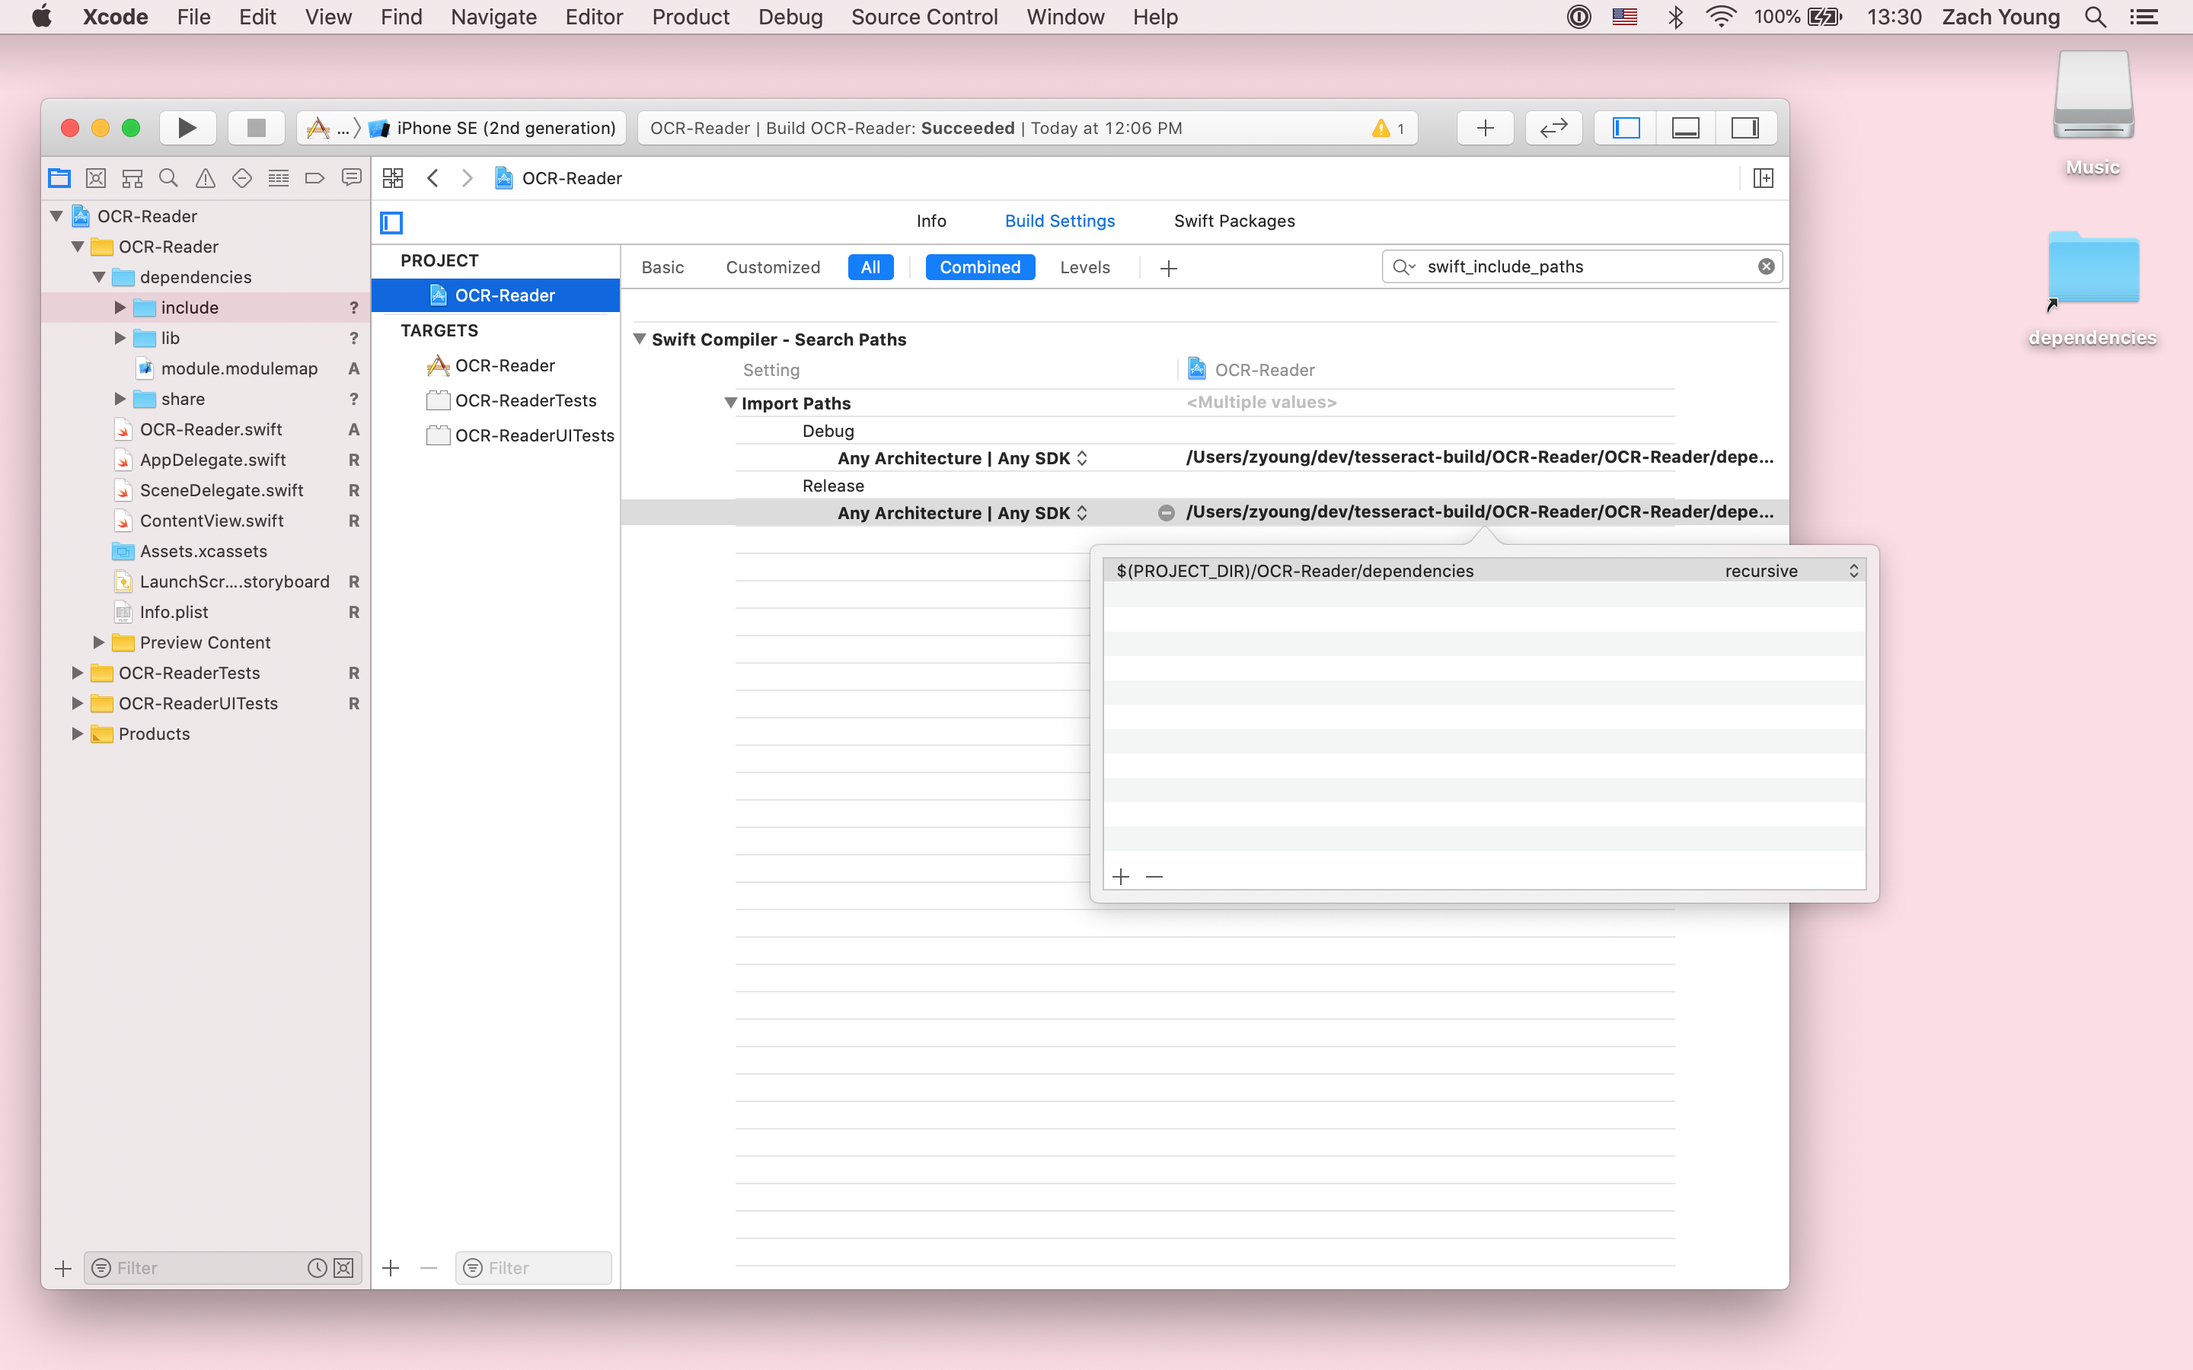
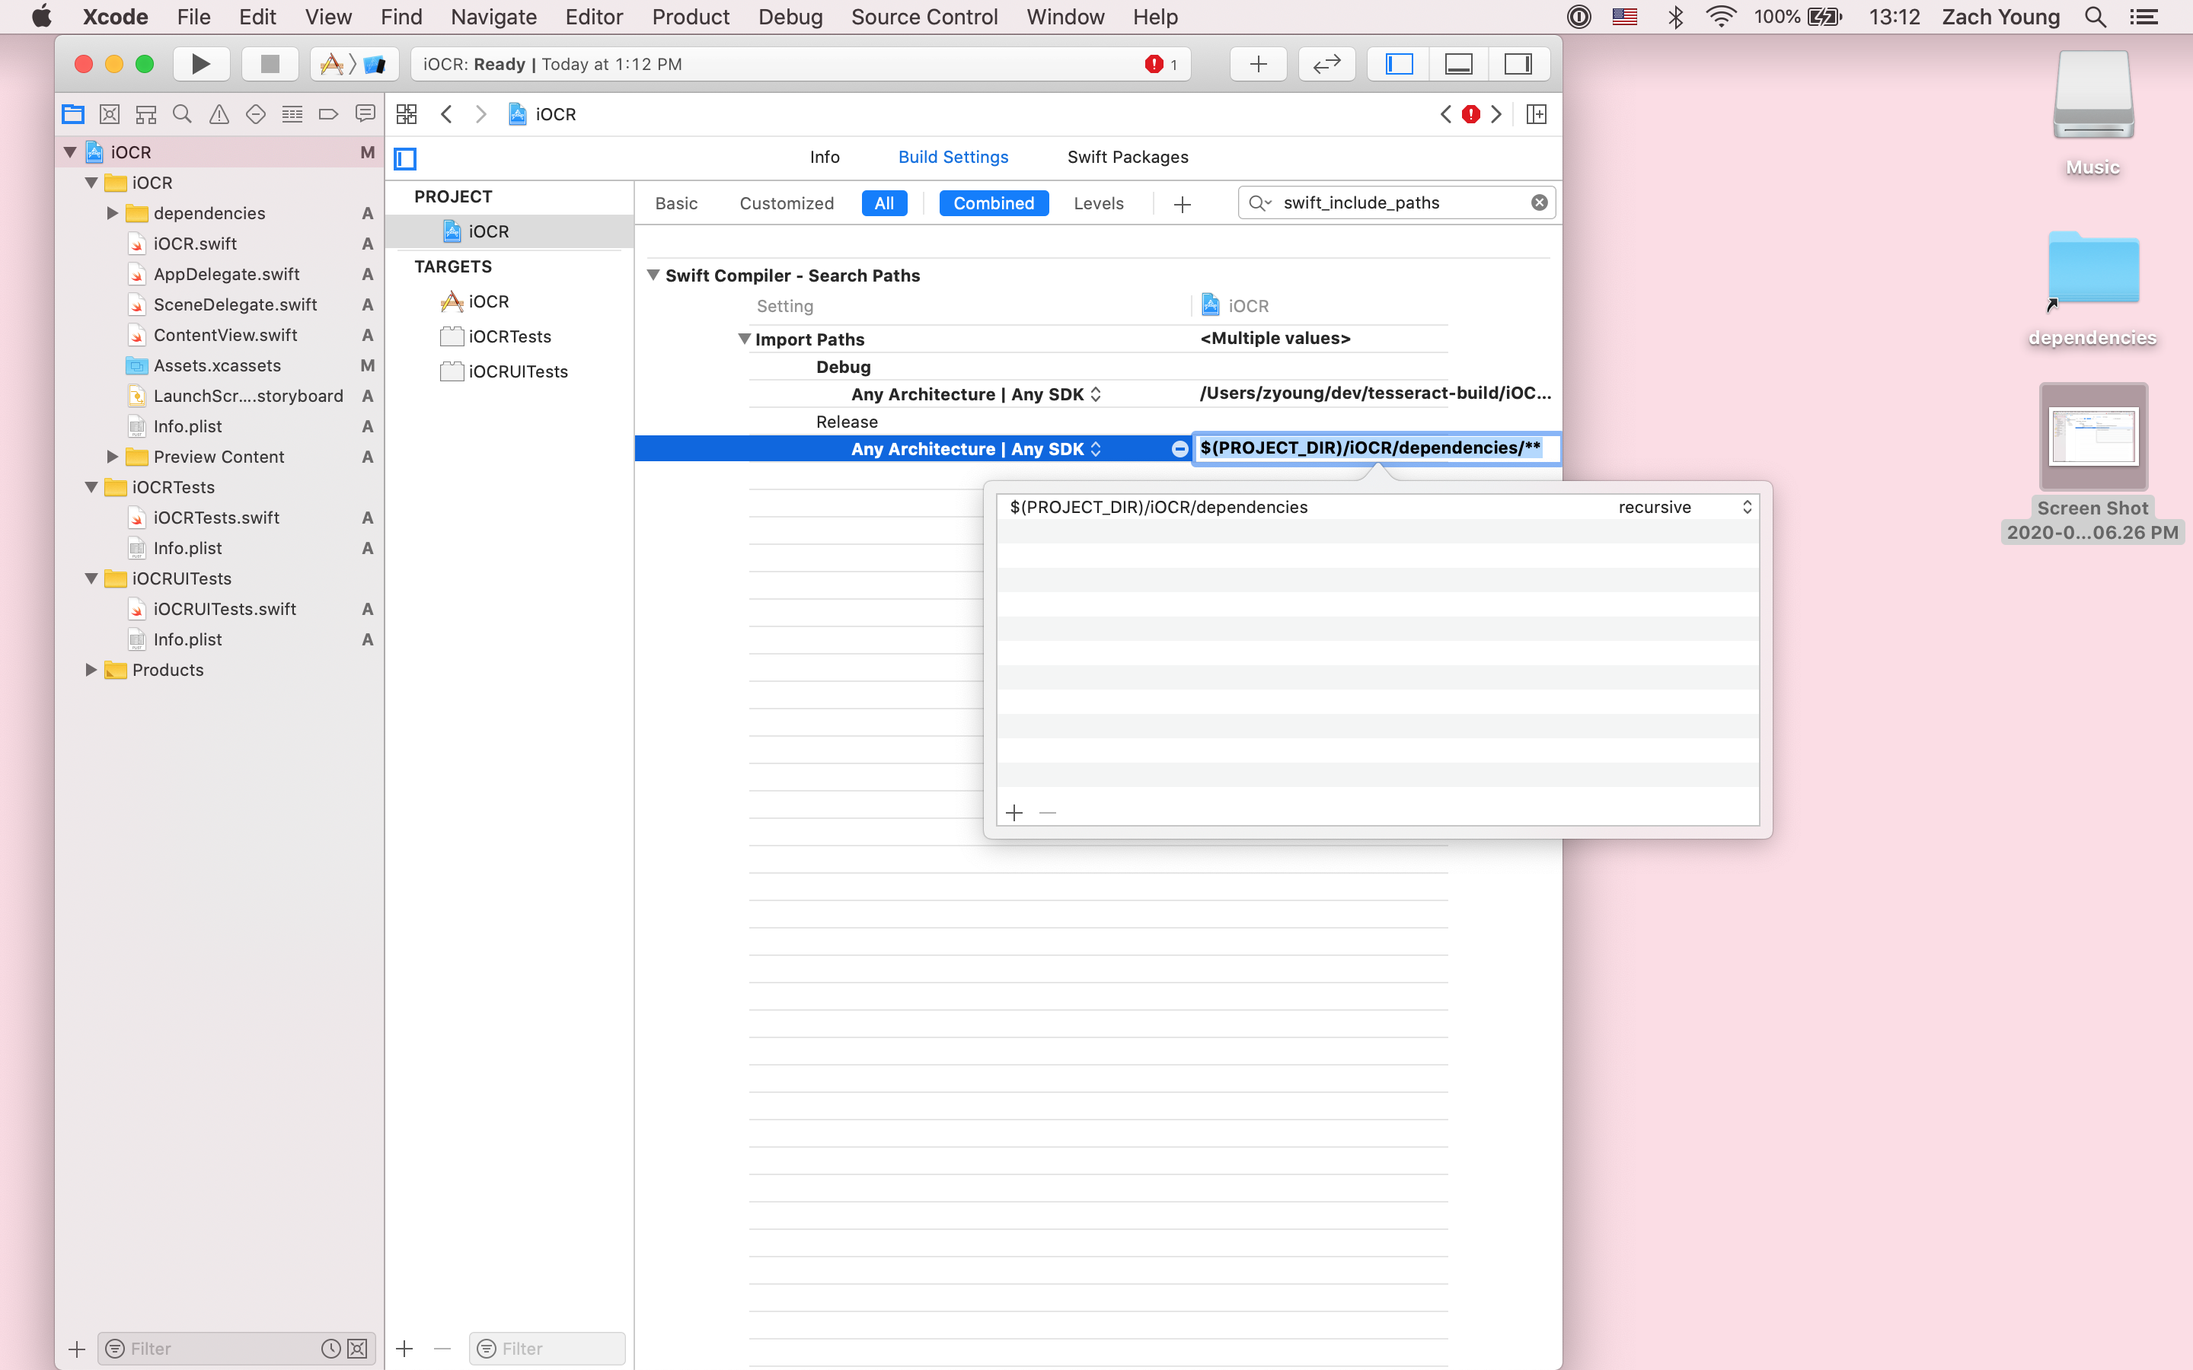
blah

diff --git a/README.md b/README.md
@@ -1,57 +1,3 @@
-## Troubleshooting
-
-```zsh
-macos_x86_64: configuring... ERROR running ../configure CC=...
-...
-...
-ERROR see /Users/zyoung/dev/tesseract-build/Logs/tesseract-4.1.1/3_config_macos_x86_64.err for more details
-```
-
-Looking at **Logs/tesseract-4.1.1/3_config_macos_x86_64.err**:
-
-```none
-configure: error: in `/Users/zyoung/dev/tesseract-build/Sources/tesseract-4.1.1/macos_x86_64':
-configure: error: C++ compiler cannot create executables
-See `config.log' for more details
-```
-
-And even though it's not mentioned, I've learned to check all available logs because *sometimes* the relevant info can be found outside of the ERR file.
-
-Looking at **Logs/tesseract-4.1.1/3_config_macos_x86_64.out**:
-
-```none
-checking whether the C++ compiler works... no
-```
-
-Wow, looks like there could be a really big problem here, since the error indicates the issue is with the compiler directly.  In this case, looking at the OUT file might leave you really alarmed and confused.  I think part of being a good detective is understanding the significance of the clues.  While this message is very unambiguous, "the compiler doesn't work", but it doesn't provide any details that allow us to further investigate "the C++ compiler".
-
-I already know the true error to this problem and it's isn't the compiler.  Here's the telling error message from **Sources/tesseract-4.1.1/macos_x86_64/config.log**:
-
-```none
-...
-ld: library not found for -lpng
-clang: error: linker command failed with exit code 1 (use -v to see invocation)
-...
-```
-
-It's true that Tesseract couldn't be compiled, but that's because I just destroyed *all* macos_x86_64 binaries/libraries including **macos_x86_64/lib/libpng16.a** which is what `./configure` failed on.  And keep in mind that this true error came just after other "errors" like:
-
-```none
-configure:2663: /Applications/Xcode.app/Contents/Developer/usr/bin/g++ -V >&5
-clang: error: unsupported option '-V -Wno-objc-signed-char-bool-implicit-int-conversion'
-clang: error: no input files
-```
-
-and:
-
-```none
-configure:2663: /Applications/Xcode.app/Contents/Developer/usr/bin/g++ -qversion >&5
-clang: error: unknown argument '-qversion'; did you mean '--version'?
-clang: error: no input files
-```
-
-which is simply `./configure` trying a number of different options to prove the version of the compiler.  So, troubleshooting will require some familiarization with this system.
-
 # Making an OCR app for iOS or macOS, from scratch
 
 Welcome to our project on building and using Tesseract OCR in your Xcode projects.  We started this project with the very strong philosophy that it should be easy to learn how to build a C or C++ library from source and then build an app on top of that.
@@ -60,7 +6,7 @@ As the person tasked with creating this guide, I didn't know, and still don't kn
 
 ## Building from source
 
-The final Tesseract OCR library that we're going to use depends on the Leptonica library to manage the common image file formats.  And Leptonica is built upon the individual libraries for the different image formats.  In building the image libraries, Leptonica, and then Tesseract, we found that some parts of those builds required additional tools like autoconf and automake, from GNU.  The final arrangement of the tools and libraries that we found looks like:
+The Tesseract OCR library manages its image data with Leptonica, a library that manipulates common image file formats.  And Leptonica is built upon the individual libraries for the different image formats.  In building the image libraries, Leptonica, and then Tesseract, we'll need some additional tools like autoconf and automake, from GNU.  The final arrangement of the tools and libraries I settled on looks like:
 
 1. autoconf
 1. automake
@@ -73,22 +19,52 @@ The final Tesseract OCR library that we're going to use depends on the Leptonica
 1. leptonica
 1. tesseract
 
-and that exact list is taken straight out of **Scripts/build/build_all.sh**.  Just running that one script will produce all the files we need for Xcode.
+The project folder that you cloned or downloaded is referred to as **PROJECTDIR** and comes with three empty directories that the build process will fill up like: download TGZ to **Downloads**; extract TGZ to **Sources**; configure and make source, and install into **Root**.  The **Scripts** directory contains all the shell scripts to order and execute those steps.
 
-The build products that can be used by Xcode will have the following 3 formats: **ios_arm64**, **ios_x86_64**, **macos_x86_64**.  We stitch the two-iOS formatted files into one multi-arch binary, **libname.a**. We write the one macOS-formatted file to a single-arch binary, **libname-macos.a**.
+For my folder setup, I did everything in the shell and Xcode relative to my PROJECTDIR:
 
-| xcode-lipo these formatted libs                                        | into this final lib            |
+```zsh
+% cd ~/dev/tesseract-build
+
+% ls -la project_environment.sh
+lrwxr-xr-x  1 zyoung  staff  36 Jun 24 11:38 project_environment.sh@ -> Scripts/build/project_environment.sh
+
+% source project_environment.sh
+% print_project_env
+
+Directories:
+
+$PROJECTDIR:  /Users/zyoung/dev/tesseract-build
+$DOWNLOADS:   /Users/zyoung/dev/tesseract-build/Downloads
+$ROOT:        /Users/zyoung/dev/tesseract-build/Root
+$SCRIPTSDIR:  /Users/zyoung/dev/tesseract-build/Scripts
+$SOURCES      /Users/zyoung/dev/tesseract-build/Sources
+
+Scripts:
+
+$BUILDDIR/build_all.sh         clean|run all build/configure scripts
+$SCRIPTSDIR/test_tesseract.sh  after build, run a quick test of tesseract
+```
+
+Take a moment to check out the master build script, `$BUILDDIR/build_all.sh`  The script contains an option to clean PROJECTDIR, and then runs a list of build scripts (which is identical to the list of libraries/tools from above).
+
+Just running that one script will produce all the files we need for Xcode.  Running it takes me about 20 minutes.  I've configured those files so they are divided into 3 formats that I've defined: **ios_arm64**, **ios_x86_64**, **macos_x86_64**.  `lipo` stitches the two-iOS formatted files into one multi-arch binary, **libname.a**; and writes the one macOS-formatted file to a single-arch binary, **libname-macos.a**.
+
+| lipo these formatted libs                                        | into this final lib            |
 |--------------------------------------------------------------------|---------------------------|
-| `$ROOT/ios_arm64/lib/libname.a` <br/> `$ROOT/ios_x86_64/lib/libname.a` | `$ROOT/lib/libname.a`       |
-| `$ROOT/macos_x86_64/lib/libname.a`                                   | `$ROOT/lib/libname-macos.a` |
+| `<Root>/ios_arm64/lib/libname.a` <br/> `<Root>/ios_x86_64/lib/libname.a` | `<Root>/lib/libname.a`       |
+| `<Root>/macos_x86_64/lib/libname.a`                                   | `<Root>/lib/libname-macos.a` |
 
+The two header files for Leptonica and Tesseract C-APIs that we need are 
+
+There's also a tesseract command-line program that we'll use, and it's in macos_x86_64.
 The build steps and these concepts are explained in more detail in [Building](Scripts/README.md#Building).
 
 ## Verifying Tesseract
 
-Now that we have built Tesseract, we need to provide it with the reference data it will use to recognize the characters in the language we are interesed in.
+Having run **build_all.sh** and successfully built Tesseract we need to provide it with the reference data it will use to recognize the characters in the language we are interesed in.
 
-Run **Scripts/test_tesseract.sh** to download some trained data for horizontal and vertical Japanese scripts and run OCR on these 2 images:
+Run **Scripts/test_tesseract.sh** to download some trained data for horizontal and vertical Japanese scripts and run a quick OCR test on these 2 images:
 
 | ![hello horizontal](Notes/static/test_hello_hori.png) | ![hello vertical](Notes/static/test_hello_vert.png) |
 |-------------------------------------------------------|-----------------------------------------------------|
@@ -108,7 +84,7 @@ Hello
 
 ```
 
-but for this simple test, all white space is stripped out and the result is compared to `'Hello,世界'`.
+but for this simple test, all white space is stripped out and the result is compared to `'Hello,世界'` (which is also the expected result for the horizontal image).
 
 These images were chosen because some Japanese writing will include English loan words and I think it's noteworthy that some English is recognized when processing exclusively for Japanese.
 
@@ -116,72 +92,82 @@ And with that little test completed, we can get into Xcode.
 
 ## Integrating Tesseract into Xcode
 
-As a personal aside, I don't have much experience with C or Swift.  I've gotten us this far with some personal experience with shell scripts and build systems, but much of the insight into configurating and executing the build came from the Makefile of another open-source iOS Tesseract project, SwiftyTesseract (ST).  I'm going to create a new Xcode project and insert a bit of isolated code from ST, which will immediately fail to build.  I'll chase down build errors as they come, modifying the project along the way.
+Much of the insight into configurating and executing the build up to this point came from the Makefile of another open-source iOS Tesseract project, SwiftyTesseract (ST), *A Swift wrapper around Tesseract for use in iOS applications*.  I've used it as a model for building with Swift on top of a C API.  I'll be using bits of ST code to navigate creating an Xcode project from scratch.  I'll chase down errors as they come, modifying the project along the way.
+
+### Create the project
 
 1. **File** &rarr; **New Project**
 
 1. A **Single View App** is a great template for this guide, **Next**
 
-1. Add **Product Name**, I've named mine *iOCR*
+1. Add **Product Name**, I've named mine *iOCR*, **Next**
 
-1. Create the project at the base of this entire project, `$PROJECTDIR`
+1. Choose your project's location, I chose `$PROJECTDIR`, **Create**
+
+### Write a bit of code
 
 1. **File** &rarr; **New** &rarr; **File...**
 
 1. Choose **Swift File**, **Next**
 
-1. **Save As:** **iOCR**, leave all else as default, **Create**
-
-1. Find the file at top of the tree in the Project Navigator, and move the file down under the **iOCR** folder.  My project now looks like this:
-
-    ![iOCR.swift in iOCR folder](Notes/static/guide_project_navigator_dark.png)
+1. **Save As:** **iOCR**, **Group: iOCR (folder under iOCR project)**, **Create**
 
 1. Insert this snippet into **iOCR.swift**:
 
     ```swift
-    import libtesseract
     import libleptonica
+    import libtesseract
     ```
 
 1. Save that file, and my first error is:
 
     ```none
-    No such module 'libtesseract'
+    No such module 'libleptonica'
     ```
 
-    Our newly built libs need to be brought into Xcode as modules.
+    <!--![no such module 'libtesseract'](Notes/static/guide/err_no_such_module_leptonica.png)-->
+    <img height="53" src="Notes/static/guide/err_no_such_module_leptonica.png"/>
 
-    1. Copy the build products into the new Xcode project folder:
+### No such module
 
-        ```zsh
-        ditto $ROOT/include iOCR/iOCR/dependencies/include
-        ditto $ROOT/lib iOCR/iOCR/dependencies/lib
-        ditto $ROOT/share/tessdata iOCR/iOCR/dependencies/share/tessdata
-        ```
-    
-    1. Right-click the iOCR folder in the project navigator and choose **Add Files to "iOCR"**:
+Our two libraries, Leptonica and Tesseract, need to be copied into the project and made known to Xcode as 2 different modules.
 
-        ![Add dependencies to iOCR folder](Notes/static/guide_add_dependencies.png)
+1. Copy over the only two headers we need into a new **dependencies** folder:
 
-    1. Select the **dependencies** folder, and leave **Create folder references** selected, **Add**
+    ```zsh
+    ditto $ROOT/include/leptonica/allheaders.h iOCR/iOCR/dependencies/include/allheaders.h
+    ditto $ROOT/include/tesseract/capi.h iOCR/iOCR/dependencies/include/capi.h
+    ```
 
-    1. **File &rarr; New...**, scroll down to **Other** and choose **Empty**, **iOCR/iOCR/dependencies/module.modulemap** with the following contents:
+    I'm ignoring the libs for now because the error is about modules.
 
-        ```swift
-        module libtesseract {
-            header "tesseract/capi.h"
-            export *
-        }
+1. Right-click the iOCR folder in the project navigator and choose **Add Files to "iOCR"**:
 
-        module libleptonica {
-            header "leptonica/allheaders.h"
-            export *
-        }
-        ```
+    ![Add dependencies to iOCR folder](Notes/static/guide/guide_add_dependencies.png)
 
-    1. My project now looks like:
+1. Select the folder **iOCR/iOCR/dependencies**, check that **Create groups** is selected, **Add**
 
-        ![Final structure](Notes/static/guide_final_structure.png)
+1. **File** &rarr; **New...** &rarr; **File**, scroll down to **Other** and choose **Empty**
 
-    1. Set the **SWIFT_INCLUDE_PATH** in the project's build settings:
+1. Create **iOCR/iOCR/dependencies/module.modulemap**, in the **Group: dependencies**, with the following contents:
+
+    ```swift
+    module libtesseract {
+        header "tesseract/capi.h"
+        export *
+    }
+
+    module libleptonica {
+        header "leptonica/allheaders.h"
+        export *
+    }
+    ```
+
+1. My project now looks like:
+
+    <img height="241" src="Notes/static/guide/module_final_structure_cropped.png"/>
+
+1. Set the **SWIFT_INCLUDE_PATHS** in the project's build settings to **$(PROJECTDIR)/iOCR/dependencies/\*\***:
+
+    <img height="540" src="Notes/static/guide/2_swift_include_paths_cropped.png"/>
 

diff --git a/Scripts/README.md b/Scripts/README.md
@@ -160,3 +160,57 @@ The scripts are written in the best zsh I know.  I set upon writing these script
 > ```
 
 [2]: https://insights.stackoverflow.com/trends?tags=bash%2Czsh
+
+## Troubleshooting
+
+```zsh
+macos_x86_64: configuring... ERROR running ../configure CC=...
+...
+...
+ERROR see /Users/zyoung/dev/tesseract-build/Logs/tesseract-4.1.1/3_config_macos_x86_64.err for more details
+```
+
+Looking at **Logs/tesseract-4.1.1/3_config_macos_x86_64.err**:
+
+```none
+configure: error: in `/Users/zyoung/dev/tesseract-build/Sources/tesseract-4.1.1/macos_x86_64':
+configure: error: C++ compiler cannot create executables
+See `config.log' for more details
+```
+
+And even though it's not mentioned, I've learned to check all available logs because *sometimes* the relevant info can be found outside of the ERR file.
+
+Looking at **Logs/tesseract-4.1.1/3_config_macos_x86_64.out**:
+
+```none
+checking whether the C++ compiler works... no
+```
+
+Wow, looks like there could be a really big problem here, since the error indicates the issue is with the compiler directly.  In this case, looking at the OUT file might leave you really alarmed and confused.  I think part of being a good detective is understanding the significance of the clues.  While this message is very unambiguous, "the compiler doesn't work", but it doesn't provide any details that allow us to further investigate "the C++ compiler".
+
+I already know the true error to this problem and it's isn't the compiler.  Here's the telling error message from **Sources/tesseract-4.1.1/macos_x86_64/config.log**:
+
+```none
+...
+ld: library not found for -lpng
+clang: error: linker command failed with exit code 1 (use -v to see invocation)
+...
+```
+
+It's true that Tesseract couldn't be compiled, but that's because I just destroyed *all* macos_x86_64 binaries/libraries including **macos_x86_64/lib/libpng16.a** which is what `./configure` failed on.  And keep in mind that this true error came just after other "errors" like:
+
+```none
+configure:2663: /Applications/Xcode.app/Contents/Developer/usr/bin/g++ -V >&5
+clang: error: unsupported option '-V -Wno-objc-signed-char-bool-implicit-int-conversion'
+clang: error: no input files
+```
+
+and:
+
+```none
+configure:2663: /Applications/Xcode.app/Contents/Developer/usr/bin/g++ -qversion >&5
+clang: error: unknown argument '-qversion'; did you mean '--version'?
+clang: error: no input files
+```
+
+which is simply `./configure` trying a number of different options to prove the version of the compiler.  So, troubleshooting will require some familiarization with this system.
